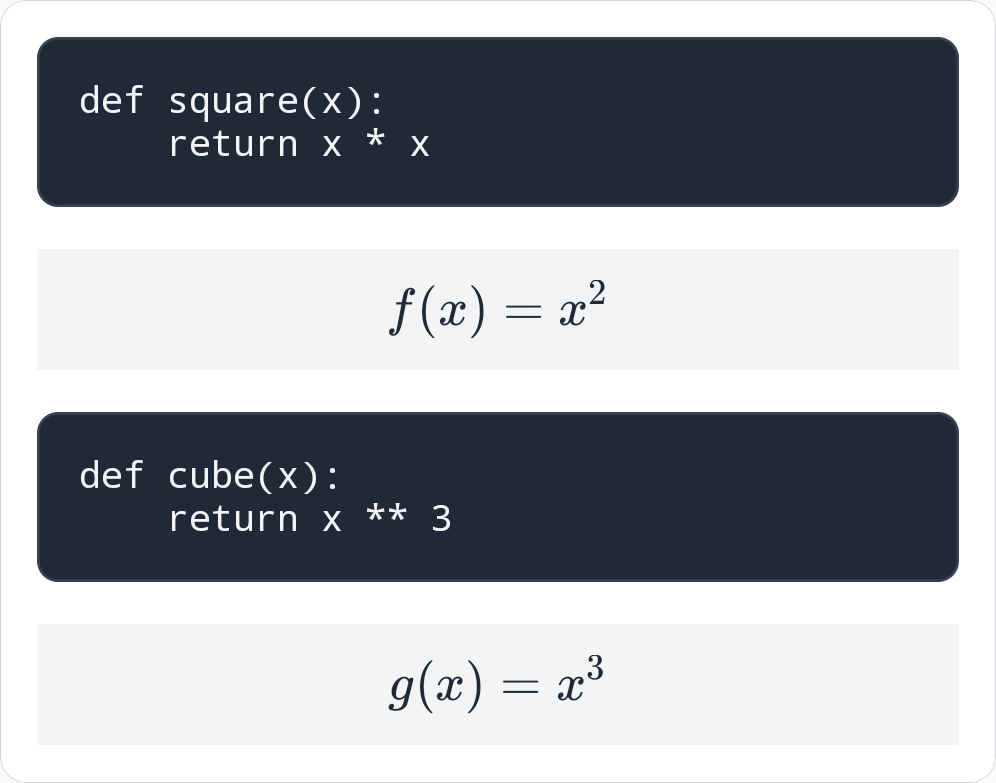
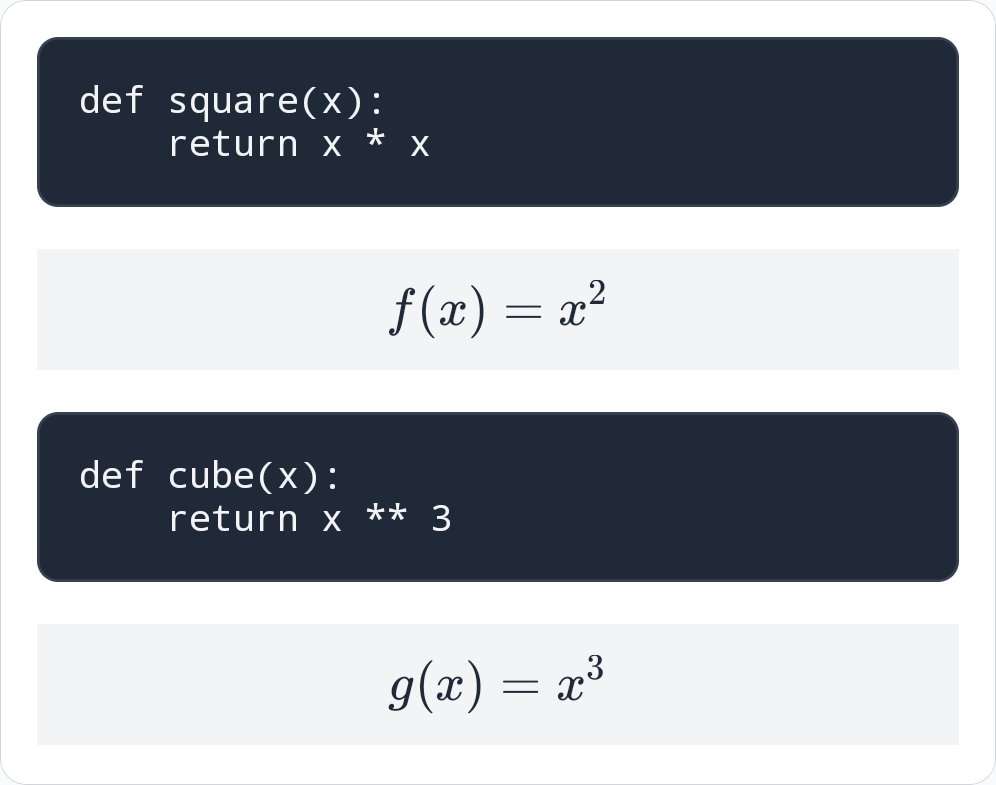
fix: fixed another clipping related issue v2

diff --git a/android/src/main/java/com/swmansion/enriched/markdown/MeasurementStore.kt b/android/src/main/java/com/swmansion/enriched/markdown/MeasurementStore.kt
@@ -388,7 +388,7 @@ object MeasurementStore {
         for (i in mathSegmentIndices.indices) {
           val metrics = mathResults[i]
           mathHeightByIndex[mathSegmentIndices[i]] =
-            (metrics.ascent + metrics.descent).toInt() + (style.mathStyle.padding * 2)
+            ceil(metrics.ascent + metrics.descent).toInt() + (style.mathStyle.padding * 2)
         }
       }
 